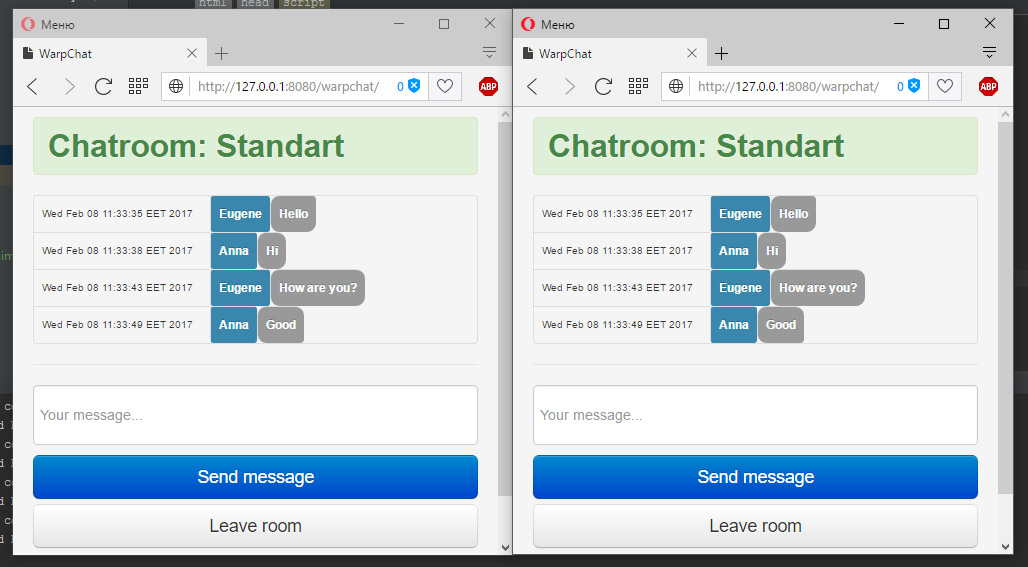
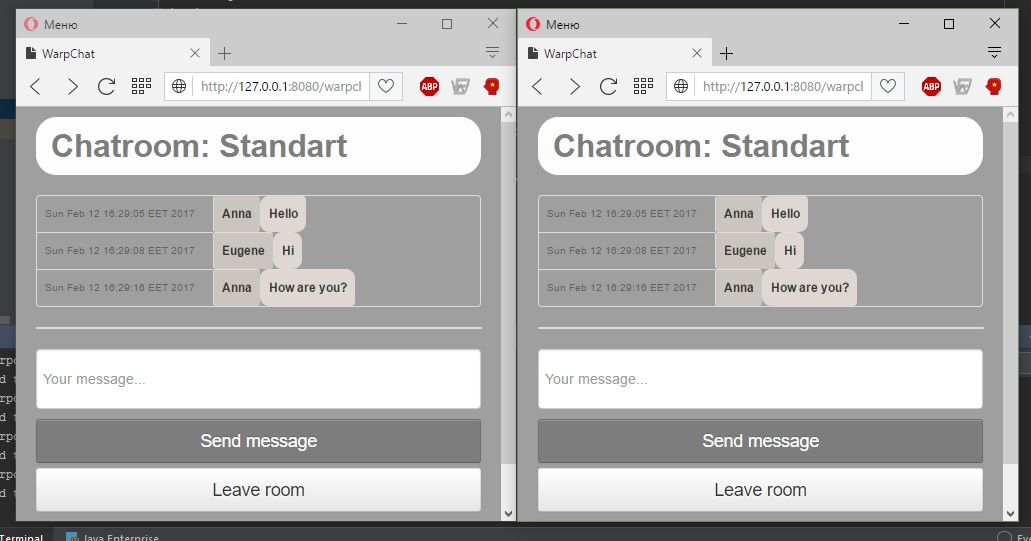
Color change

diff --git a/src/main/webapp/resource/css/bootstrap.css b/src/main/webapp/resource/css/bootstrap.css
@@ -226,7 +226,7 @@ body {
   font-family: "Helvetica Neue", Helvetica, Arial, sans-serif;
   font-size: 14px;
   line-height: 20px;
-  color: #333333;
+  color: #616161;
   background-color: #ffffff;
 }
 
@@ -1042,8 +1042,11 @@ legend {
   font-size: 21px;
   line-height: 40px;
   color: #333333;
-  border: 0;
-  border-bottom: 1px solid #e5e5e5;
+  border: 1px solid #dddddd;
+  border-left: 0;
+  -webkit-border-radius: 4px;
+  -moz-border-radius: 4px;
+  border-radius: 4px;
 }
 
 legend small {
@@ -1096,7 +1099,7 @@ input[type="color"],
   margin-bottom: 10px;
   font-size: 14px;
   line-height: 20px;
-  color: #555555;
+  color: #999999;
   vertical-align: middle;
   -webkit-border-radius: 4px;
      -moz-border-radius: 4px;
@@ -3292,9 +3295,9 @@ button.close {
 .btn-large {
   padding: 11px 19px;
   font-size: 17.5px;
-  -webkit-border-radius: 6px;
-     -moz-border-radius: 6px;
-          border-radius: 6px;
+  -webkit-border-radius: 3px;
+     -moz-border-radius: 3px;
+          border-radius: 3px;
 }
 
 .btn-large [class^="icon-"],
@@ -3360,15 +3363,15 @@ input[type="button"].btn-block {
 .btn-primary {
   color: #ffffff;
   text-shadow: 0 -1px 0 rgba(0, 0, 0, 0.25);
-  background-color: #006dcc;
-  *background-color: #0044cc;
-  background-image: -moz-linear-gradient(top, #0088cc, #0044cc);
-  background-image: -webkit-gradient(linear, 0 0, 0 100%, from(#0088cc), to(#0044cc));
-  background-image: -webkit-linear-gradient(top, #0088cc, #0044cc);
-  background-image: -o-linear-gradient(top, #0088cc, #0044cc);
-  background-image: linear-gradient(to bottom, #0088cc, #0044cc);
+  background-color: #7D7D7D;
+  *background-color: #7D7D7D;
+  background-image: -moz-linear-gradient(top, #7D7D7D, #7D7D7D);
+  background-image: -webkit-gradient(linear, 0 0, 0 100%, from(#7D7D7D), to(#7D7D7D));
+  background-image: -webkit-linear-gradient(top, #7D7D7D, #7D7D7D);
+  background-image: -o-linear-gradient(top, #7D7D7D, #7D7D7D);
+  background-image: linear-gradient(to bottom, #7D7D7D, #7D7D7D);
   background-repeat: repeat-x;
-  border-color: #0044cc #0044cc #002a80;
+  border-color: #7D7D7D #7D7D7D #7D7D7D;
   border-color: rgba(0, 0, 0, 0.1) rgba(0, 0, 0, 0.1) rgba(0, 0, 0, 0.25);
   filter: progid:DXImageTransform.Microsoft.gradient(startColorstr='#ff0088cc', endColorstr='#ff0044cc', GradientType=0);
   filter: progid:DXImageTransform.Microsoft.gradient(enabled=false);
@@ -3381,8 +3384,8 @@ input[type="button"].btn-block {
 .btn-primary.disabled,
 .btn-primary[disabled] {
   color: #ffffff;
-  background-color: #0044cc;
-  *background-color: #003bb3;
+  background-color: #737373;
+  *background-color: #7D7D7D;
 }
 
 .btn-primary:active,
@@ -3879,14 +3882,14 @@ input[type="submit"].btn.btn-mini {
   text-shadow: 0 1px 0 rgba(255, 255, 255, 0.5);
   background-color: #fcf8e3;
   border: 1px solid #fbeed5;
-  -webkit-border-radius: 4px;
-     -moz-border-radius: 4px;
-          border-radius: 4px;
+  -webkit-border-radius: 20px;
+     -moz-border-radius: 20px;
+          border-radius: 20px;
 }
 
 .alert,
 .alert h4 {
-  color: #c09853;
+  color: #bec0bc;
 }
 
 .alert h4 {
@@ -3901,9 +3904,9 @@ input[type="submit"].btn.btn-mini {
 }
 
 .alert-success {
-  color: #468847;
-  background-color: #dff0d8;
-  border-color: #d6e9c6;
+  color: #7D7D7D;
+  background-color: #fdfdfd;
+  border-color: #fdfdfd;
 }
 
 .alert-success h4 {
@@ -5635,11 +5638,11 @@ a.thumbnail:focus {
   font-size: 11.844px;
   font-weight: bold;
   line-height: 14px;
-  color: #ffffff;
+  color: #373734;
   text-shadow: 0 -1px 0 rgba(0, 0, 0, 0.25);
   white-space: nowrap;
   vertical-align: baseline;
-  background-color: #999999;
+  background-color: #ded7d2;
 }
 
 .label {
@@ -5702,7 +5705,7 @@ a.badge:focus {
 
 .label-info,
 .badge-info {
-  background-color: #3a87ad;
+  background-color: #cbc5c0;
 }
 
 .label-info[href],

diff --git a/src/main/webapp/index.html b/src/main/webapp/index.html
@@ -15,7 +15,7 @@
         body {
             padding-top: 40px;
             padding-bottom: 40px;
-            background-color: rgb(82, 85, 136);
+            background-color: rgb(159, 159, 159);
         }
 
         .form-signin {
@@ -24,9 +24,9 @@
             margin: 0 auto 20px;
             background-color: #fff;
             border: 1px solid #e5e5e5;
-            -webkit-border-radius: 5px;
-            -moz-border-radius: 5px;
-            border-radius: 5px;
+            -webkit-border-radius: 2px;
+            -moz-border-radius: 2px;
+            border-radius: 2px;
             -webkit-box-shadow: 0 1px 2px rgba(0, 0, 0, .05);
             -moz-box-shadow: 0 1px 2px rgba(0, 0, 0, .05);
             box-shadow: 0 1px 2px rgba(0, 0, 0, .05);
